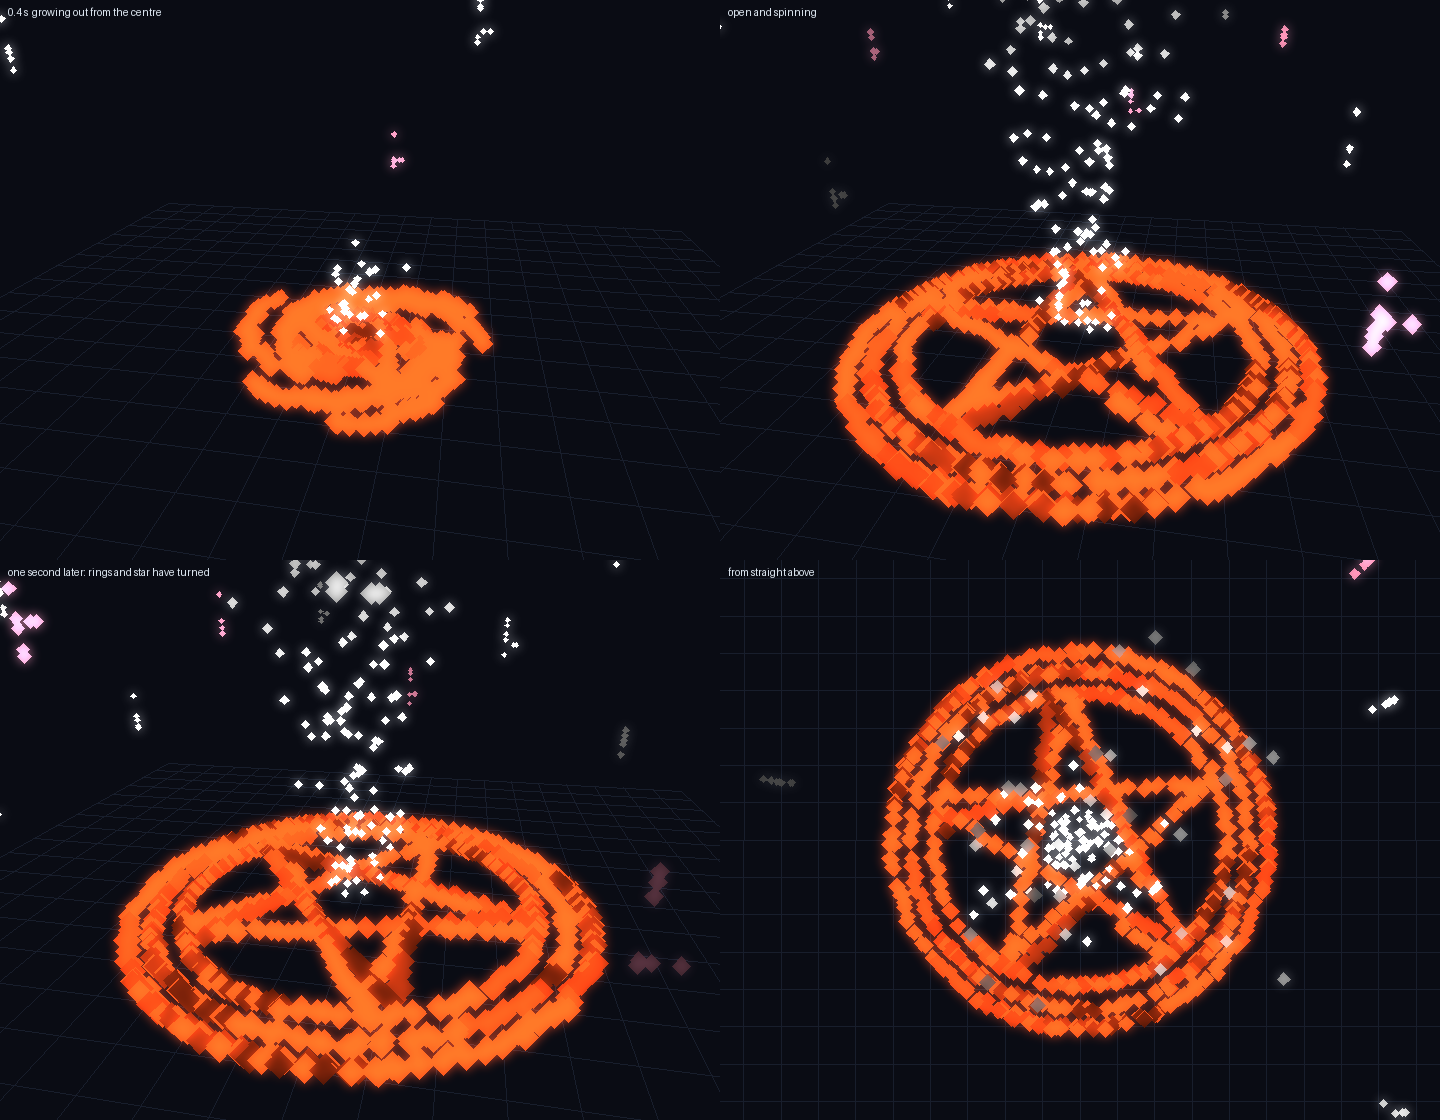
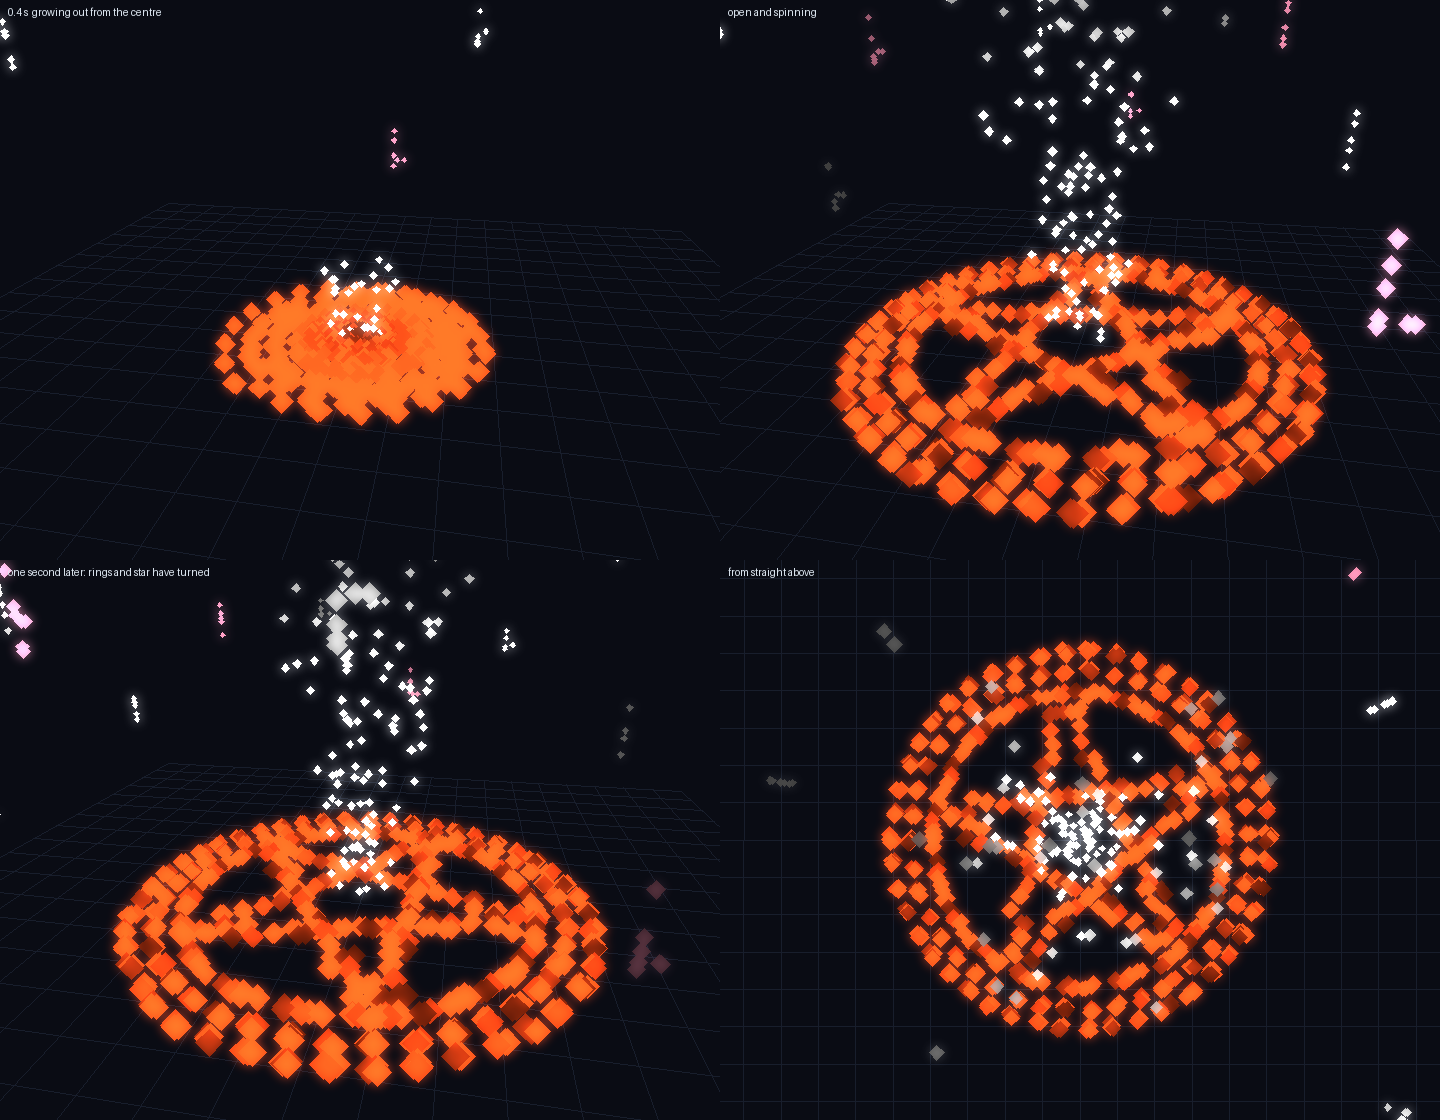
DH: a bit less dense (270 points, 45 re-lit a tick)

diff --git a/dh/code_block.js b/dh/code_block.js
@@ -3,7 +3,7 @@ if (typeof spinCircleStill !== "function") {
 var RITE_CFG = {
   size: 1,
   spin: 0.5,
-  pointsPerTick: 55,
+  pointsPerTick: 45,
   perPoint: 2,
   thick: 0.09,
   sparks: true,
@@ -24,11 +24,11 @@ var RITE_COL = {
 }
 
 var RITE_RINGS = [
-  [5, 84, -1],
-  [4.5, 76, -1],
-  [3.9, 66, 1],
+  [5, 70, -1],
+  [4.5, 64, -1],
+  [3.9, 56, 1],
 ]
-var RITE_STAR = { radius: 3.9, tips: 5, perEdge: 20, turn: 1 }
+var RITE_STAR = { radius: 3.9, tips: 5, perEdge: 16, turn: 1 }
 var riteList = []
 var riteBeat = 0
 

diff --git a/dh/world_code.js b/dh/world_code.js
@@ -2,7 +2,7 @@ var RITE_CFG = {
   chat: "!dh",
   size: 1,
   spin: 0.5,
-  pointsPerTick: 55,
+  pointsPerTick: 45,
   perPoint: 2,
   thick: 0.09,
   sparks: true,
@@ -23,11 +23,11 @@ var RITE_COL = {
 }
 
 var RITE_RINGS = [
-  [5, 84, -1],
-  [4.5, 76, -1],
-  [3.9, 66, 1],
+  [5, 70, -1],
+  [4.5, 64, -1],
+  [3.9, 56, 1],
 ]
-var RITE_STAR = { radius: 3.9, tips: 5, perEdge: 20, turn: 1 }
+var RITE_STAR = { radius: 3.9, tips: 5, perEdge: 16, turn: 1 }
 var riteList = []
 var riteBeat = 0
 

diff --git a/dh/README.md b/dh/README.md
@@ -33,21 +33,21 @@ could be caught by the word filter.
 
 | Part | Particles | Moves |
 |---|---|---|
-| Two outer rings | 84 and 76 points, at 5 and 4.5 blocks from the centre | Turn one way |
-| Inner ring | 66 points at 3.9 blocks | Turns the other way |
-| Star | 100 points, 20 on each of its 5 lines, tips on the inner ring | Turns with the inner ring |
+| Two outer rings | 70 and 64 points, at 5 and 4.5 blocks from the centre | Turn one way |
+| Inner ring | 56 points at 3.9 blocks | Turns the other way |
+| Star | 80 points, 16 on each of its 5 lines, tips on the inner ring | Turns with the inner ring |
 | Sparks | White, 3 every tick | Rise from the centre and slow down |
 | Falling strings | Short strings of small white and pink squares, 6 to 9 blocks out and 3 to 9 up | Drift down and fade |
 
-The pattern is 326 points with 2 particles on each, set within 0.09 blocks
+The pattern is 270 points with 2 particles on each, set within 0.09 blocks
 of the point so the lines look thick and solid. It is 10 blocks across and
 lies flat on the floor. It makes no sound. It
 grows out from the centre in 1.2 seconds, then turns at 0.5 radians a second
 (a full turn every 12.6 seconds).
 
-Particles fade, so the points are re-lit all the time: 55 each tick, so each
+Particles fade, so the points are re-lit all the time: 45 each tick, so each
 point comes round again every 6 ticks, at its new turned position. That is
-at most 58 particle calls a tick (up to about 1,000 floor particles alive at once). If the game drops particles at that rate,
+at most 48 particle calls a tick (up to about 800 floor particles alive at once). If the game drops particles at that rate,
 lower `pointsPerTick` (each point then lives longer and the turning looks
 more stepped).
 
@@ -58,8 +58,8 @@ more stepped).
 | `chat` | Chat command (`!dh`) |
 | `size` | Scale (1 = 10 blocks across) |
 | `spin` | Turning speed in radians a second (0.5). 0 = still |
-| `pointsPerTick` | Points re-lit each tick (55) |
-| `perPoint` | Particles on each point (2). Raise for even denser lines at no extra calls |
+| `pointsPerTick` | Points re-lit each tick (45) |
+| `perPoint` | Particles on each point (2). 1 = thinner lines, 3 = denser, at no change in calls |
 | `thick` | How far those particles may sit from the point, in blocks (0.09) |
 | `sparks`, `glyphs` | The rising sparks and the falling strings; false = off |
 | `growTicks` | Ticks to grow to full size (24) |
